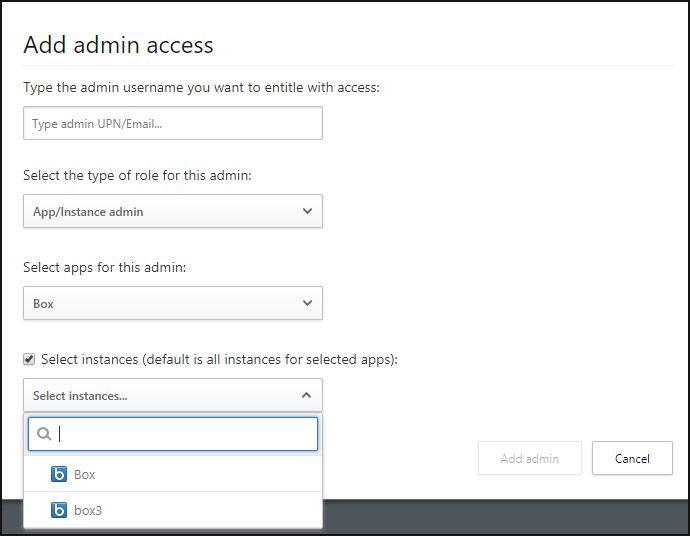
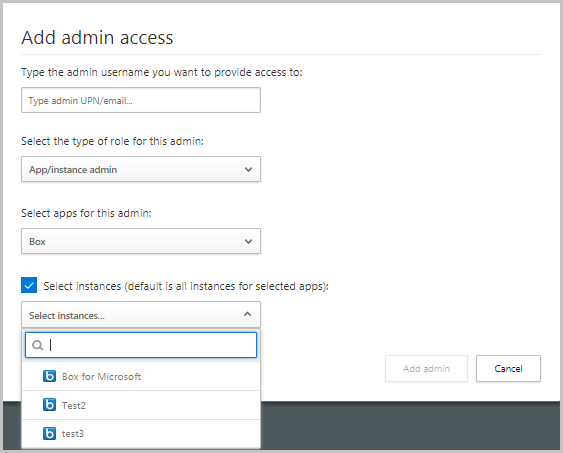
PNG9- updating screenshots and text for Ux change

Changed region(s): [[0.0, 0.0, 1.0, 1.0]]

diff --git a/CloudAppSecurityDocs/manage-admins.md b/CloudAppSecurityDocs/manage-admins.md
@@ -2,12 +2,12 @@
 # required metadata
 
 title: Manage admin access to the Cloud App Security portal | Microsoft Docs
-description: This topic provides instructions for setting access to the Cloud App Security portal for your admins.
+description: This article provides instructions for setting access to the Cloud App Security portal for your admins.
 keywords:
 author: rkarlin
 ms.author: rkarlin
 manager: mbaldwin
-ms.date: 6/24/2018
+ms.date: 11/16/2018
 ms.topic: conceptual
 ms.prod:
 ms.service: cloud-app-security
@@ -25,20 +25,21 @@ ms.suite: ems
 #ms.custom:
 
 ---
-
+# Manage admin access
 
 *Applies to: Microsoft Cloud App Security*
 
+Microsoft Cloud App Security supports Role-based access control. By default, certain [Office 365 admin roles](https://docs.microsoft.com/office365/admin/add-users/about-admin-roles) and [Azure Active Directory (Azure AD) admin roles](https://docs.microsoft.com/azure/active-directory/users-groups-roles/directory-assign-admin-roles) have access to Microsoft Cloud App Security. This article provides instructions for setting access to the Cloud App Security portal for your admins. For more information about assigning administrator roles, see the articles for [Azure Active Directory](https://docs.microsoft.com/azure/active-directory/active-directory-assign-admin-roles) and [Office 365 ](https://docs.microsoft.com/office365/admin/add-users/assign-admin-roles).
 
-# Manage admin access
+## Office 365 and Azure AD roles with access to Cloud App Security
 
-Microsoft Cloud App Security supports Role-based access control. By default, the following Office 365 and Azure AD admin roles have access to Microsoft Cloud App Security:
+By default, the following Office 365 and Azure AD admin roles have access to Microsoft Cloud App Security:
 
-- Global administrator and Security administrator: Admins with **Full access** have full permissions in Cloud App Security to add admins, add policies and settings, upload logs and perform governance actions.
+- **Global administrator and Security administrator:** Admins with **Full access** have full permissions in Cloud App Security. They can add admins, add policies and settings, upload logs and perform governance actions.
 
-- Compliance administrator: Has read-only permissions and can manage alerts. Can create and modify file policies, allow file governance actions, and view all the built-in reports under Data Management. 
+- **Compliance administrator:** Has read-only permissions and can manage alerts. Can create and modify file policies, allow file governance actions, and view all the built-in reports under Data Management. 
 
-- Security reader: Has read-only permissions and can manage alerts. The Security reader is restricted from performing the following:
+- **Security reader:** Has read-only permissions and can manage alerts. The Security reader is restricted from doing the following actions:
 
   - Create policies or edit and change existing ones 
   - Performing any governance actions 
@@ -51,9 +52,9 @@ Microsoft Cloud App Security supports Role-based access control. By default, the
   - Accessing and viewing the Governance log 
   - Accessing and viewing the Manage snapshot reports page 
 
-- App/instance admin: Has permissions to all of the data in Microsoft Cloud App Security that deals exclusively with the specific app or instance of an app selected here. For example, if you give a user admin permission to your Box European instance, the admin will be able to see only data that relates to this app instance, whether it's files, activities, policies or alerts, as follows:
+- **App/instance admin:** Has permissions to all of the data in Microsoft Cloud App Security that deals exclusively with the specific app or instance of an app selected. For example, you give a user admin permission to your Box European instance. The admin will see only data that relates to the Box European instance, whether it's files, activities, policies, or alerts, as follows:
 
-  - Activities page - only activities regarding the specific app
+  - Activities page - only activities about the specific app
   - Alerts - only alerts relating to the specific app
   - Policies - can view all policies and can edit or create only policies that deal exclusively with the app/instance
   - Account - only accounts for the specific app/instance
@@ -64,9 +65,9 @@ Microsoft Cloud App Security supports Role-based access control. By default, the
   - Security extensions - permissions only for API token with user permissions
   - Governance actions - only for the specific app/instance 
 
-- Group admin: Has permissions to all of the data in Microsoft Cloud App Security that deals exclusively with the specific group selected here. For example, if you give a user admin permission to the group "Germany - all users", the admin will be able to view and modify information in Microsoft Cloud App Security only for that user group, as follows:
+- **Group admin:** Has permissions to all of the data in Microsoft Cloud App Security that deals exclusively with the specific group selected here. For example, if you give a user admin permission to the group "Germany - all users", the admin can view and modify information in Microsoft Cloud App Security only for that user group, as follows:
 
-  - Activities page - only activities regarding the users in the group
+  - Activities page - only activities about the users in the group
   - Alerts - only alerts relating to the users in the group
   - Policies - can view all policies and can edit or create only policies that deal exclusively with users in the group
   - Account - only accounts for the specific users in the group
@@ -78,49 +79,41 @@ Microsoft Cloud App Security supports Role-based access control. By default, the
   - Governance actions - only for the specific users in the group
 
 
-
-For more information, see [Assigning administrator roles in Azure Active Directory](https://docs.microsoft.com/azure/active-directory/active-directory-assign-admin-roles).
-
-You can also add additional admins to Cloud App Security, without adding users to Azure Active Directory administrative roles, by performing the following steps:
-
-1. Click the settings cog ![settings icon](./media/settings-icon.png "settings icon") and then **Manage admins**. 
-
-2. Click the plus to add the admins who should have access to Cloud App Security. You can type an internal or external email address to enable administrators from inside your organization or external Managed Security Service Providers (MSSPs) to administer your security alerts.
-  
-  ![add admins](./media/add-admin.png)
-    
-3. Next, click the drop-down to set what type of role the admin has, **Global admin**, **Security reader**, **Compliance admin**, or **App/Instance admin**. If you select **App/Instance admin**, select the app and instance for the admin to have permissions for.
-
-     >[!NOTE]
-      >Any admin, whose access is limited who attempts to access a restricted page or perform a restricted action will receive an error that they don't have permission to access the page or perform the action.
-4. Click **Add admin**.  
-
-   >[!NOTE]
-    >Only Global administrators or Security administrators can grant access to other users to Cloud App Security.
-
-
 ## Override admin permissions
 
 If you want to override an administrator's permission from Azure Active Directory or Office 365, you can do so by manually adding the user to Cloud App Security and assigning the user permissions.
-For example, if you want to assign Stephanie, who is a Security reader in Azure Active Directory to have **Full access** in Cloud App Security, you can add her manually to Cloud App Security and assign her **Full access** to override her role and allow her the desired permissions in Cloud App Security. 
+For example, if you want to assign Stephanie, who is a Security reader in Azure Active Directory to have **Full access** in Cloud App Security, you can add her manually to Cloud App Security and assign her **Full access** to override her role and allow her the necessary permissions in Cloud App Security. 
 
 ## Add additional admins
 
-To add additional admins to Cloud App Security:
+You can add additional admins to Cloud App Security without adding users to Azure Active Directory administrative roles. To add additional admins, do the following steps:
+
+   >[!IMPORTANT]
+   > Only Global administrators or Security administrators can grant access to other users to Cloud App Security.
+
+
 1. Click the settings cog ![settings icon](./media/settings-icon.png "settings icon") and then **Manage admin access**. 
 
-2. Add the admins who should have access to Cloud App Security. Select their access level and click **Close**.
-
+2. Click the plus to add the admins who should have access to Cloud App Security. You can type an internal or external email address to enable administrators from inside your organization or external Managed Security Service Providers (MSSPs) to administer your security alerts.
   
+   ![add admins](./media/add-admin.png)
+
+3. Next, click the drop-down to set what type of role the admin has, **Global admin**, **Security reader**, **Compliance admin**, or **App/Instance admin**. If you select **App/Instance admin**, select the app and instance for the admin to have permissions for.
+
+     >[!NOTE]
+      >Any admin, whose access is limited, that attempts to access a restricted page or perform a restricted action will receive an error that they don't have permission to access the page or perform the action.
+
+4. Click **Add admin**.  
+
 ## Invite external admins
 
-Microsoft Cloud App Security enables you to invite external Managed Security Service Providers (MSSPs) as administrators of your Microsoft Cloud App Security portal. External users can now be configured as administrators and assigned any of the roles currently available in Microsoft Cloud App Security. In addition, to enable MSSPs to provide services across multiple customer tenants, Administrators who have access rights to more than one tenant can now easily switch tenants within the portal. 
+Microsoft Cloud App Security enables you to invite external Managed Security Service Providers (MSSPs) as administrators of your Microsoft Cloud App Security portal. External users can now be configured as administrators and assigned any of the roles available in Microsoft Cloud App Security. Additionally, to enable MSSPs to provide services across multiple customer tenants, Administrators who have access rights to more than one tenant can now easily switch tenants within the portal. 
 
 To switch between tenants, after you have permissions to multiple tenants, click the user icon ![user icon](./media/user-icon.png "user icon"). You should see a list of the tenants for which you have permissions. Select the tenant you want to manage.
 
 ![choose tenant](./media/choose-tenant.png "choose tenant")
 
-## See Also  
+## Next steps  
 [Set up Cloud Discovery](set-up-cloud-discovery.md)   
 
 [Premier customers can also choose Cloud App Security directly from the Premier Portal.](https://premier.microsoft.com/)  
